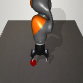
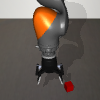
s

Changed region(s): [[0.0, 0.0, 1.0, 0.4819], [0.3373, 0.506, 0.747, 0.9398], [0.3855, 0.4819, 0.4096, 0.506]]

diff --git a/code/src/wrapper/GymWrapper_multiinput_RGBD.py b/code/src/wrapper/GymWrapper_multiinput_RGBD.py
@@ -66,7 +66,7 @@ class GymWrapper_multiinput_RGBD(Wrapper, Env):
                 low = 0
                 high = 255
                 dtype = np.uint8      ####Currently uint8
-                shape = (obs[self.env.camera_names[0]+"_image"].shape)    
+                shape = (obs[self.env.camera_names[0]+"_image"][:65,23:177,:].shape)    
                 shape_list = list(shape)
                 shape_list[2] = shape_list[2] + 1
                 shape = shape_list
@@ -115,18 +115,13 @@ class GymWrapper_multiinput_RGBD(Wrapper, Env):
 
 
                 cam_name = self.env.camera_names[0]
-                depth_array_normalized = obs_dict[cam_name +"_depth"]#[:65,23:177,:]      
-
-                depth_map = np.uint8(np.clip(get_real_depth_map(self.sim, depth_array_normalized)*(255/3), 0,255))   ## maps from 0-3 to 0-255 and cuts all values over 255
-                # print(depth_map.shape)
-                # rgb_img = ndimage.rotate(depth_map, 180)
-                # rgb_img = np.squeeze(rgb_img, axis=2) 
+                depth_array_normalized = obs_dict[cam_name +"_depth"][:65,23:177,:]   ##NBNBNB
                 # rgb_img = Image.fromarray(rgb_img)
                 # rgb_img.show()
                 # depth_map = np.clip(get_real_depth_map(self.sim, depth_array_normalized)*(65535/3), 0,65535).astype(np.uint16)   #65535
 
                 depth_array = depth_map
-                rgb_array = obs_dict[cam_name + "_image"]#[:65,23:177,:]  
+                rgb_array = obs_dict[cam_name + "_image"][:65,23:177,:]  #NBNBNBNB
 
                 new_array = np.concatenate((rgb_array, depth_array), axis=-1)
 

diff --git a/code/tests.py b/code/tests.py
@@ -180,8 +180,8 @@ if __name__ == '__main__':
     
     obs = env.reset()
 
-    action = model.predict()
-
+    #action = model.predict()
+    print(obs)
     #print(obs['custom_image_rgbd'][0][0][0].dtype)
     #print(obs['custom_image_rgbd'][0][0][3].dtype)
 
